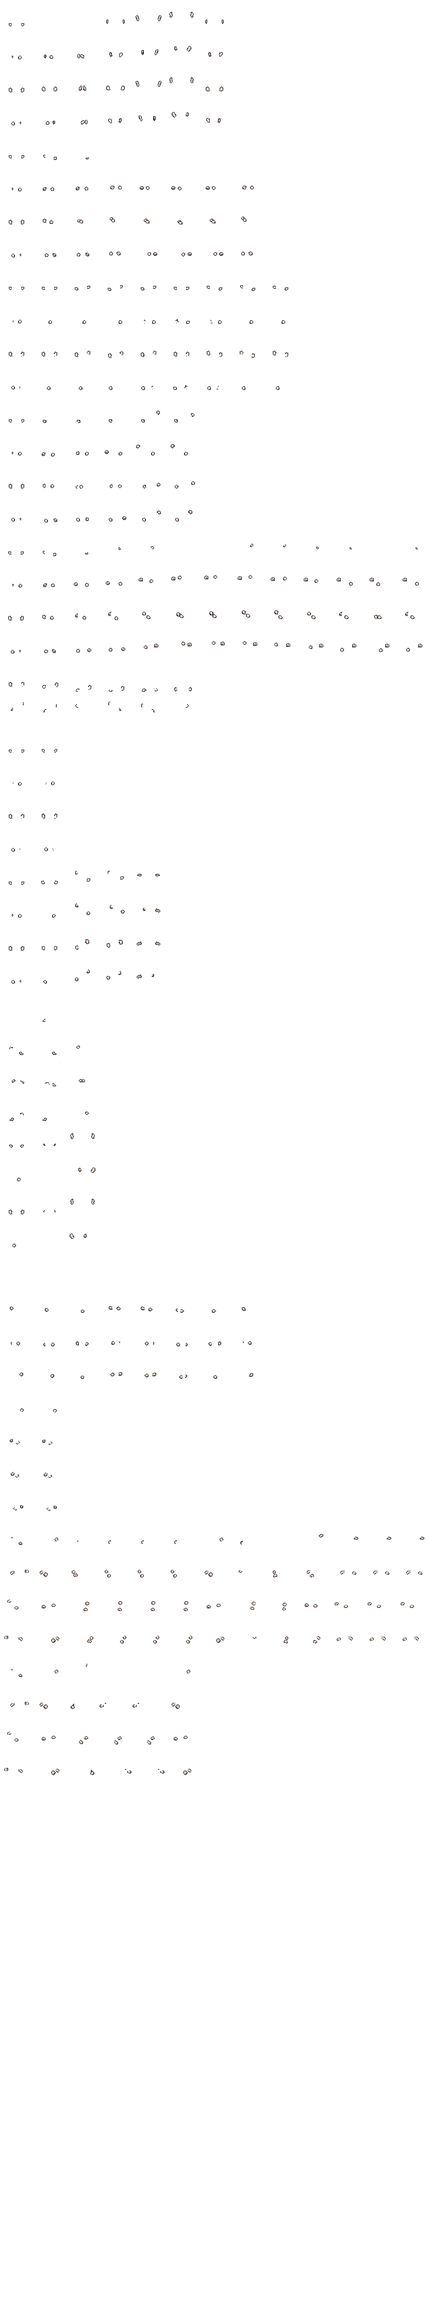
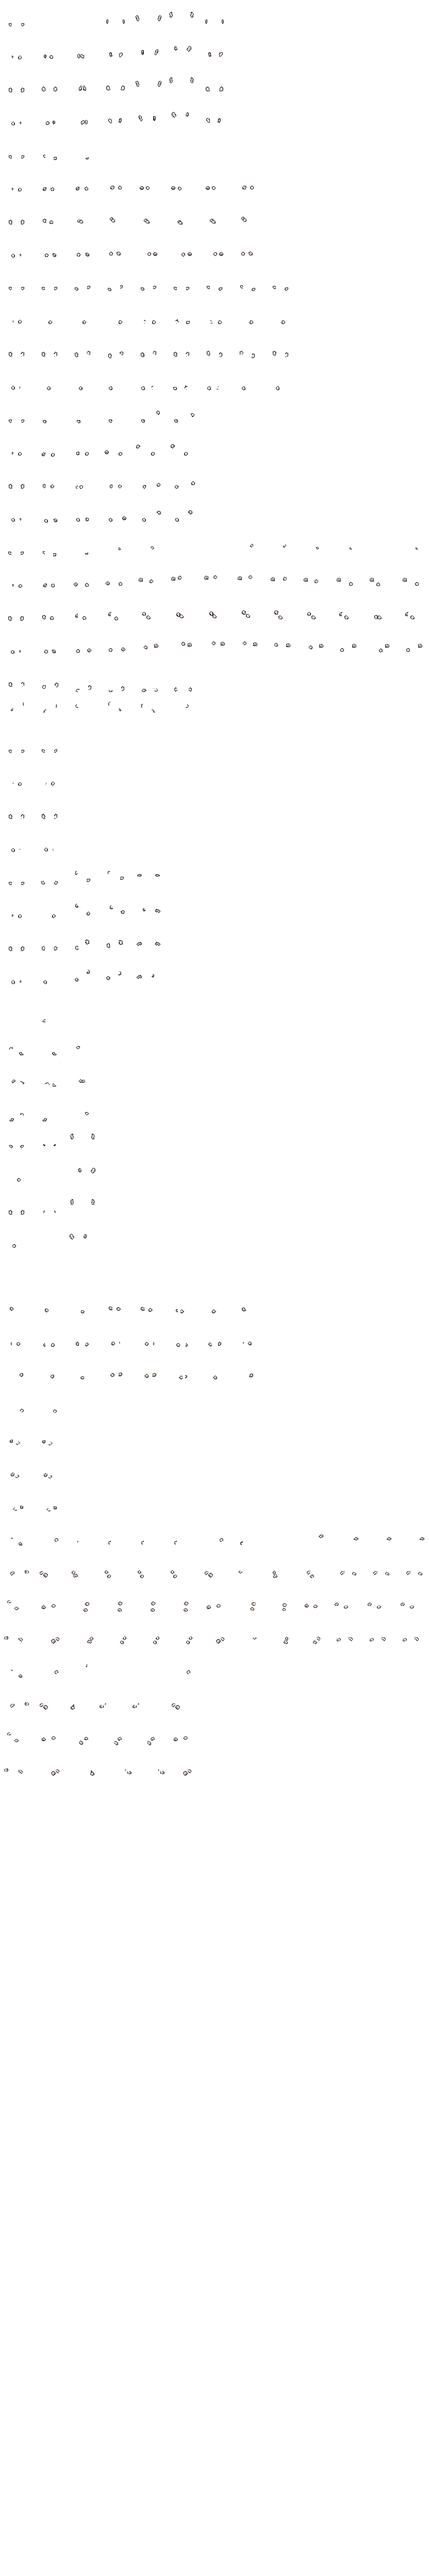
8 směrů chůze/běhu, zvedání ze země (experiment), přefitování vybavení na diagonály
Claude-Session: https://claude.ai/code/session_01FD8vuXjwhCfFaNzkPScCcd

diff --git a/tools/hero8.py b/tools/hero8.py
@@ -1,0 +1,179 @@
+"""Osm směrů pohybu a zvedání ze země pro postavu v2 (volá ho tools/build_hero.py).
+
+Zdroj `tools/source_hero/Animace_doplnek/`: diagonální chůze (80px snímky) a zvedání ze země (3 směry).
+Tělo se jen vycentruje do 64px buňky. Vybavení pro diagonály nikdo nenakreslil, proto se PŘEFITUJE z hotových vrstev:
+  head  = výřez hlavy z vrstvy (svislý směr) posunutý na hlavu nového těla,
+  torso/legs/feet = pixely kůže v daném pásmu těla se přebarví barvami věci (přiřazení podle světlosti, okraj = obrys věci).
+Zvedání ze země je zatím jen tělo (experiment)."""
+import colorsys
+import re
+from pathlib import Path
+
+import numpy as np
+from PIL import Image
+
+DIRS = ("north-west", "north-east", "south-west", "south-east")  # = AnimCatalog.Dir UP_LEFT, UP_RIGHT, DOWN_LEFT, DOWN_RIGHT
+PICK_DIRS = {"west": 1, "south": 2, "east": 3}                      # řádek = Dir (UP=0 se zkopíruje z jihu)
+WALK_FRAMES, PICK_FRAMES = 6, 5
+FEET_Y = 61                 # patky postavy v 64px buňce (ORIGIN v CharacterVisual)
+# pásma těla v kreslené buňce 64px (barvy věci se berou z hotových 4směrových snímků)
+BANDS = {"torso": (28, 46), "legs": (46, 58), "feet": (54, 62)}
+HEAD_TOP_ROWS = 8           # počet řádků od temene, podle kterých se odhadne střed hlavy
+HEAD_DEPTH = 24             # kolik řádků pod temenem hlavy se přenáší z vrstvy (kapuce/přilba)
+OUTLINE_LUM = 0.2
+LIT_LUM = 0.45             # světlost, od které je pixel těla kůže/oblečení (tmavší = obrys, vlasy)
+
+
+def _read(path) -> np.ndarray:
+    return np.array(Image.open(path).convert("RGBA"))
+
+
+def _lum(p) -> float:
+    return (0.3 * float(p[0]) + 0.59 * float(p[1]) + 0.11 * float(p[2])) / 255
+
+
+def _hsv(p):
+    return colorsys.rgb_to_hsv(*(float(x) / 255 for x in p[:3]))
+
+
+def _is_shorts(p) -> bool:
+    h, s, _ = _hsv(p)
+    return p[3] > 0 and 0.5 < h < 0.68 and s < 0.35
+
+
+def _crop(frames: list[np.ndarray], bottom: int) -> list[np.ndarray]:
+    """80px snímky -> 64px buňka: střed x, nejnižší bod animace na FEET_Y."""
+    top = bottom - FEET_Y
+    return [np.ascontiguousarray(f[top:top + 64, 8:72]) for f in frames]
+
+
+def _lowest(frames: list[np.ndarray]) -> int:
+    return max(int(np.nonzero(f[..., 3])[0].max()) for f in frames)
+
+
+class Diagonals:
+    def __init__(self, folder: Path, rows: dict[str, int], size: tuple[int, int]):
+        """rows = řádky v sheetu (walk_diag, pickup), size = (výška, šířka) plátna."""
+        self.rows, self.size = rows, size
+        anim = folder / "animations"
+        walk = {d: [_read(anim / "Walking" / d / f"frame_{i:03d}.png") for i in range(WALK_FRAMES)] for d in DIRS}
+        pick = {d: [_read(anim / "Picking_Up" / d / f"frame_{i:03d}.png") for i in range(PICK_FRAMES)] for d in PICK_DIRS}
+        bw = max(_lowest(f) for f in walk.values())
+        bp = max(_lowest(f) for f in pick.values())
+        self.walk = {d: _crop(f, bw) for d, f in walk.items()}
+        self.pick = {d: _crop(f, bp) for d, f in pick.items()}
+
+    def _canvas(self) -> np.ndarray:
+        return np.zeros((*self.size, 4), np.uint8)
+
+    def _put(self, canvas, row: int, col: int, cell: np.ndarray) -> None:
+        canvas[row * 64:(row + 1) * 64, col * 64:(col + 1) * 64] = cell
+
+    def body(self) -> np.ndarray:
+        """Řádky diagonální chůze + zvedání v plátně celého sheetu."""
+        out = self._canvas()
+        for k, d in enumerate(DIRS):
+            for i, cell in enumerate(self.walk[d]):
+                self._put(out, self.rows["walk_diag"] + k, i, cell)
+        for d, k in PICK_DIRS.items():
+            for i, cell in enumerate(self.pick[d]):
+                self._put(out, self.rows["pickup"] + k, i, cell)
+                if d == "south":
+                    self._put(out, self.rows["pickup"], i, cell)
+        return out
+
+    def fit(self, layer: np.ndarray, modes: tuple[str, ...], body_ref: np.ndarray, walk_row: int) -> np.ndarray:
+        """Vrstva věci pro diagonální chůzi. layer = hotová 4směrová vrstva, body_ref = 4směrové tělo, walk_row = řádek 'walk'."""
+        out = self._canvas()
+        pal = {m: _palette(layer, walk_row, *BANDS[m]) for m in modes if m in BANDS}
+        for k, d in enumerate(DIRS):
+            for i, cell in enumerate(self.walk[d]):
+                parts = [_recolor(cell, _masks(cell)[m], pal[m]) for m in pal]
+                if "head" in modes:
+                    parts.append(_head(cell, layer, body_ref, walk_row + (0 if d.startswith("north") else 2), i))
+                self._put(out, self.rows["walk_diag"] + k, i, _stack(parts))
+        return out
+
+
+def _stack(parts: list[np.ndarray]) -> np.ndarray:
+    out = np.zeros_like(parts[0])
+    for p in parts:
+        m = p[..., 3] > 0
+        out[m] = p[m]
+    return out
+
+
+def _palette(layer: np.ndarray, walk_row: int, y0: int, y1: int):
+    """Barvy věci v pásmu těla ze snímků chůze: (barvy bez obrysu, barva obrysu) nebo None."""
+    px = np.concatenate([layer[r * 64 + y0:r * 64 + y1, c * 64:(c + 1) * 64].reshape(-1, 4) for r in range(walk_row, walk_row + 4) for c in range(9)])
+    px = px[px[:, 3] > 0]
+    if len(px) == 0:
+        return None
+    lum = np.array([_lum(p) for p in px])
+    body = px[lum >= OUTLINE_LUM]
+    if len(body) == 0:
+        return None
+    outline = px[lum < OUTLINE_LUM]
+    return body[np.argsort([_lum(p) for p in body])], (outline[len(outline) // 2] if len(outline) else body[0])
+
+
+def _masks(f: np.ndarray) -> dict[str, np.ndarray]:
+    """Pásma těla: torso (od brady po šortky, vč. paží), legs (šortky a nohy), feet (spodních 5 řádků). Obrys a vlasy se nepřebarvují."""
+    opaque = f[..., 3] > 0
+    ys = np.nonzero(opaque.any(1))[0]
+    y0, y1 = ys.min(), ys.max()
+    h = y1 - y0 + 1
+    lit = np.array([[_lum(p) >= LIT_LUM for p in row] for row in f]) & opaque  # světlé pixely = kůže/šortky, ne obrys a vlasy
+    shorts = np.array([[_is_shorts(p) for p in row] for row in f])
+    sy = np.nonzero(shorts.sum(1) >= 2)[0]
+    s0, s1 = (sy.min(), sy.max()) if len(sy) >= 3 else (y0 + int(.66 * h), y0 + int(.8 * h))
+    y = np.arange(f.shape[0])[:, None]
+    feet = lit & (y > y1 - 5)
+    return {"torso": lit & ~shorts & (y >= y0 + int(.40 * h)) & (y < s0),
+            "legs": ((lit & (y > s1)) | shorts) & ~feet,
+            "feet": feet}
+
+
+def _recolor(f: np.ndarray, mask: np.ndarray, pal) -> np.ndarray:
+    out = np.zeros_like(f)
+    ys, xs = np.nonzero(mask)
+    if len(ys) == 0 or pal is None:
+        return out
+    colors, outline = pal
+    order = np.argsort([_lum(p) for p in f[ys, xs]])
+    q = (np.arange(len(order)) + .5) / len(order)
+    new = np.zeros((len(ys), 4), np.uint8)
+    new[order] = colors[(q * len(colors)).astype(int)]
+    new[:, 3] = 255
+    out[ys, xs] = new
+    # okraj masky u průhledna = obrys věci
+    alpha = np.pad(f[..., 3] > 0, 1)
+    edge = ~(alpha[:-2, 1:-1] & alpha[2:, 1:-1] & alpha[1:-1, :-2] & alpha[1:-1, 2:])
+    e = edge[ys, xs]
+    out[ys[e], xs[e]] = outline
+    return out
+
+
+def _head_box(cell: np.ndarray):
+    """Temeno a střed hlavy (x) podle horních řádků siluety."""
+    ys, xs = np.nonzero(cell[..., 3])
+    top = ys.min()
+    band = xs[ys < top + HEAD_TOP_ROWS]
+    return top, band.mean()
+
+
+def _head(cell: np.ndarray, layer: np.ndarray, body_ref: np.ndarray, row: int, i: int) -> np.ndarray:
+    """Hlava věci ze svislého směru, posunutá na hlavu nového těla."""
+    c = i % 9
+    src_body = body_ref[row * 64:(row + 1) * 64, c * 64:(c + 1) * 64]
+    src_layer = layer[row * 64:(row + 1) * 64, c * 64:(c + 1) * 64]
+    (t0, cx0), (t1, cx1) = _head_box(src_body), _head_box(cell)
+    dy, dx = int(round(t1 - t0)), int(round(cx1 - cx0))
+    out = np.zeros_like(cell)
+    ys, xs = np.nonzero(src_layer[..., 3])
+    keep = ys < t0 + HEAD_DEPTH
+    ys, xs = ys[keep], xs[keep]
+    ty, tx = ys + dy, xs + dx
+    ok = (ty >= 0) & (ty < 64) & (tx >= 0) & (tx < 64)
+    out[ty[ok], tx[ok]] = src_layer[ys[ok], xs[ok]]
+    return out

diff --git a/tools/build_hero.py b/tools/build_hero.py
@@ -9,15 +9,18 @@ from pathlib import Path
 import numpy as np
 from PIL import Image
 
+from hero8 import Diagonals
+
 SRC = Path("tools/source_hero")
 OUT = Path("assets/characters/hero")
 CATALOG = Path("scripts/character/anim_catalog.gd").read_text()
 
 BIG, BIG_Y = 128, int(re.search(r"const BIG_Y := (\d+)", CATALOG).group(1))
 BIG_ROWS, W, W_BIG = 12, 832, 1664
-# animace katalogu, které mají zdroj v balíčku (torch_* se kreslí zvlášť); soubor se jmenuje jinak než animace jen u těchto:
+# animace katalogu, které mají zdroj v balíčku po animacích (torch_* a 8směrové řádky řeší jinde); soubor se jmenuje jinak jen u těchto:
 STEM = {"backslash": "1h_backslash", "halfslash": "1h_halfslash", "slash_1h": "1h_slash"}
-ROWS = {n: int(r) for n, r in re.findall(r'&"(\w+)": \{"row": (\d+)', CATALOG) if not n.startswith("torch")}
+CATALOG_ROWS = {n: int(r) for n, r in re.findall(r'&"(\w+)": \{"row": (\d+)', CATALOG)}
+ROWS = {n: r for n, r in CATALOG_ROWS.items() if not n.startswith("torch") and not n.endswith("_diag") and n != "pickup"}
 BIG_FILES = {"slash": ("slash_128", 0), "backslash": ("backslash_128", 4), "halfslash": ("halfslash_128", 8)}  # složka Nahy_boj
 
 
@@ -85,6 +88,8 @@ plain = fill_empty(from_sheet(SRC / "Nahy.png"), from_dir(SRC / "Nahy_standard")
 armed = fill_empty(from_dir(SRC / "Nahy_standard"), plain)                         # tělo s mečem u pasu (= Nahy_zbran)
 armed_big = read(SRC / "Nahy_zbran.png")[3456:]
 sword_main, sword_big = diff(armed, plain), diff(armed_big, body_big())
+diag = Diagonals(SRC / "Animace_doplnek", CATALOG_ROWS, (BIG_Y, W))
+plain = fill_empty(plain, diag.body())                                             # + diagonální chůze a zvedání ze země
 
 # --- vybavení: id, název, popis, slot, zdroj, základ, staty ---------------------------------------
 # zdroj: ("dir", složka s animacemi) | ("sheet", soubor); základ, od kterého se kompletní postava odečítá:
@@ -116,6 +121,9 @@ ITEMS = [
     dict(id="crossbow", name="Kuše", desc="Střelná zbraň (střelba zatím není).", slot="WEAPON", src=("dir", "Zbrane/Crossbow"), base="plain", attack="shoot", damage=4, price=140),
 ]
 # "shirt" = tělo + tričko (základ pro boty); kde tričko chybí, zůstane holé tělo
+# přefitování na diagonální chůzi: head = výřez hlavy, torso/legs/feet = přebarvení těla (viz tools/hero8.py)
+FIT = {"hood": ("head",), "mail_coif": ("head",), "close_helm": ("head",), "wizard_hat": ("head",),
+       "shirt": ("torso", "legs"), "chainmail": ("torso",), "frock_coat": ("torso",), "plate": ("torso",), "boots": ("feet",)}
 BASES = {"armed": armed, "plain": plain, "shirt": np.where(shirt_comp[..., 3:] > 0, shirt_comp, armed)}
 
 
@@ -169,6 +177,8 @@ for it in ITEMS:
     else:
         comp = from_dir(SRC / rel) if kind == "dir" else from_sheet(SRC / rel)
         main = comp if it["base"] == "none" else diff(comp, BASES[it["base"]])
+    if it["id"] in FIT:
+        main = fill_empty(main, diag.fit(main, FIT[it["id"]], plain, ROWS["walk"]))
     weapon = it["slot"] == "WEAPON"
     sheet = canvas(BIG_Y + (BIG_ROWS * BIG if big is not None else 0), W_BIG if big is not None else W)
     sheet[:BIG_Y, :W] = main

diff --git a/docs/PREDAVACI_DOKUMENT.md b/docs/PREDAVACI_DOKUMENT.md
@@ -151,3 +151,8 @@ Text k vložení jako první zpráva:
 - Layout: `AnimCatalog` má 70 řádků (+`slash_1h`, `watering`), `BIG_Y` = 4480. Nové sloty `TORSO`, `HANDS`.
 - Původní postava, předměty a nástroje: `archive/hero_v1/` (`.gdignore`). Pochodeň je archivovaná (póza byla kreslená na staré tělo).
 - Známé mezery: brnění nemají některé animace (kroužková košile: combat/backslash/halfslash; všechny věci: slash_1h/watering) → postava je v nich bez nich; luk/kuše mají jen animaci `shoot`, střelba není implementovaná (nejsou v obchodě); 192px oversize efekty (Longsword/Blunt), `tool_axe`, `walk_128` luku nejsou využity; ikony rukavic/kabátu/kapuce jsou hrubé.
+
+### 9b. Osm směrů (5. 11. 2026)
+- Zdroj `tools/source_hero/Animace_doplnek/` (diagonální chůze 6 snímků, zvedání ze země ve 3 směrech, 80px snímky). `tools/hero8.py` je vycentruje do 64px buňky (patky na y=61) a vybavení pro diagonály **přefituje** z hotových vrstev: hlava = výřez z vrstvy posunutý na novou hlavu, tělo/nohy/boty = přebarvení těla barvami věci (podle světlosti). Není to ručně kreslené – detaily (plechy, kroužky) se ztrácejí.
+- Katalog: `Dir` má 8 hodnot; `walk_diag`/`run_diag` (řádky 70–73), `pickup` (74–77, UP = kopie DOWN), `BIG_Y` = 4992. `AnimCatalog.resolve()` pošle diagonálu jen chůzi/běhu, ostatní animace dostanou svislý směr. `Character.facing` zůstává 4směrový (boj), jen vizuál chůze/běhu používá `AnimCatalog.dir8()`.
+- Mezery: rukavice a zbraně nemají diagonální chůzi, zvedání ze země je jen tělo, barvy vlasů/kalhot nového těla se liší od 4směrového (hnědé vlasy, šedé šortky vs. zrzavé/bílé).
